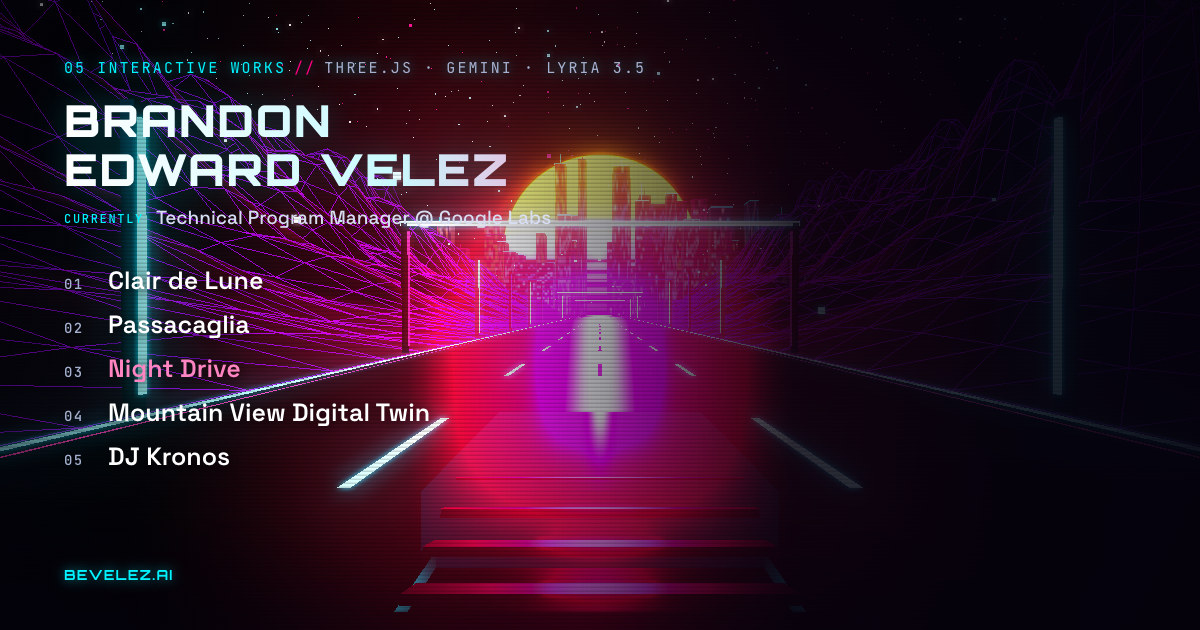
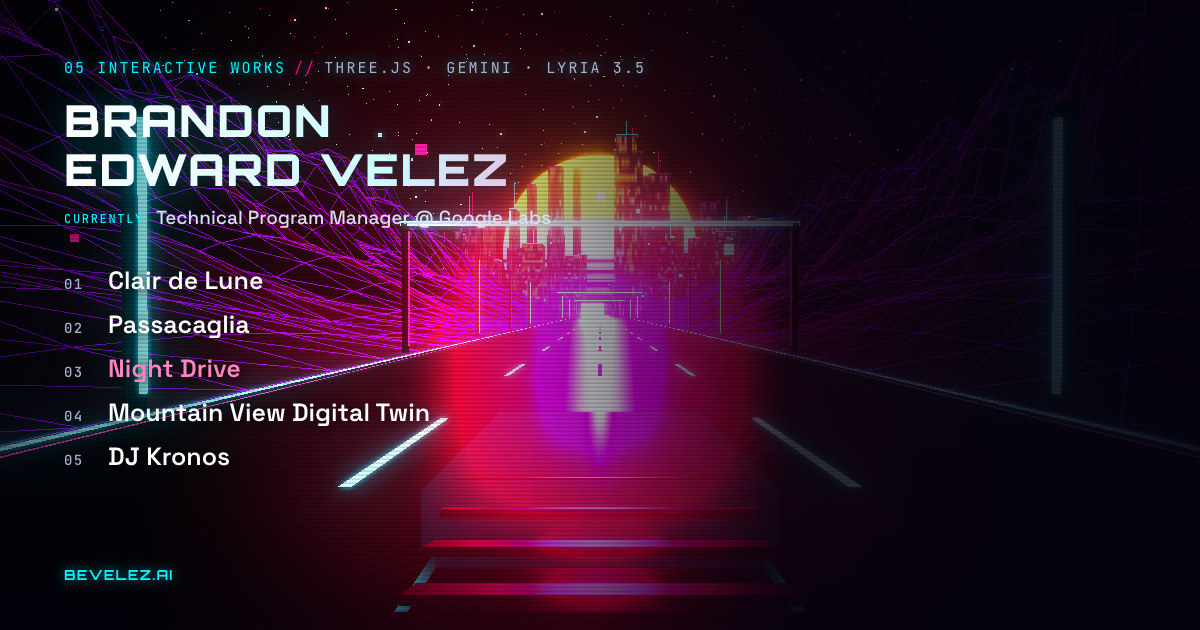
reve

diff --git a/main.js b/main.js
@@ -43,7 +43,7 @@ container.appendChild(renderer.domElement);
 // Neon surfaces are authored above 1.0 (HDR) so the bloom threshold only catches true emitters:
 // rails, lane dashes, pylon strips, tower crowns, the sun and the tail bar. Asphalt, car paint
 // and the wireframe terrain stay crisp instead of smearing into the glow.
-const NEON_HDR = 1.45;
+const NEON_HDR = 1.38;
 function neonColor(hex, intensity = NEON_HDR) {
   return new THREE.Color(hex).multiplyScalar(intensity);
 }
@@ -59,9 +59,9 @@ const composerTarget = new THREE.WebGLRenderTarget(1, 1, {
 const renderScene = new RenderPass(scene, camera);
 const bloomPass = new UnrealBloomPass(
   new THREE.Vector2(viewportSize().width, viewportSize().height),
-  0.38, // strength
-  0.28, // radius
-  1.05  // threshold (HDR: only neon / sun / emissive windows cross it)
+  0.36, // strength
+  0.3,  // radius
+  1.06  // threshold (HDR: only neon / sun / emissive windows cross it)
 );
 const outputPass = new OutputPass(); // AgX tone mapping + sRGB, applied once, after bloom
 
@@ -137,7 +137,7 @@ let boostBlend = 0;
 const ambientLight = new THREE.AmbientLight(0x28154a, 1.4);
 scene.add(ambientLight);
 
-const horizonLight = new THREE.DirectionalLight(0xff007f, 1.25);
+const horizonLight = new THREE.DirectionalLight(0xff007f, 1.0);
 horizonLight.position.set(0, 35, -260);
 scene.add(horizonLight);
 
@@ -186,7 +186,7 @@ const sunGroup = new THREE.Group();
 const sunGeo = new THREE.PlaneGeometry(125, 125);
 const sunMat = new THREE.MeshBasicMaterial({
   map: createSynthwaveSunTexture(),
-  color: neonColor(0xffffff, 1.25),
+  color: neonColor(0xffffff, 1.24),
   transparent: true,
   fog: false,
   depthWrite: false
@@ -237,8 +237,8 @@ const ROAD_WIDTH = 18;
 const roadGeo = new THREE.PlaneGeometry(ROAD_WIDTH, ROAD_LENGTH);
 const roadMat = new THREE.MeshStandardMaterial({
   color: 0x080612,
-  roughness: 0.46,
-  metalness: 0.55
+  roughness: 0.56,
+  metalness: 0.5
 });
 const roadMesh = new THREE.Mesh(roadGeo, roadMat);
 roadMesh.rotation.x = -Math.PI / 2;
@@ -264,8 +264,8 @@ createGlowingRail(ROAD_WIDTH / 2 - 0.5, 0xff007f, 0.1);
 // Scrolling Dashed Lane Dividers (3 lanes)
 const dashObjects = [];
 const dashGeo = new THREE.PlaneGeometry(0.16, 4.2);
-const dashMatCyan = new THREE.MeshBasicMaterial({ color: neonColor(0x00f3ff, 1.3) });
-const dashMatPink = new THREE.MeshBasicMaterial({ color: neonColor(0xff007f, 1.3) });
+const dashMatCyan = new THREE.MeshBasicMaterial({ color: neonColor(0x00f3ff, 1.15) });
+const dashMatPink = new THREE.MeshBasicMaterial({ color: neonColor(0xff007f, 1.15) });
 
 const laneXPositions = [-3.0, 0.0, 3.0];
 const numDashesPerLane = 28;
@@ -472,7 +472,7 @@ for (let i = 0; i < NUM_BUILDINGS; i++) {
   if (height > 28) {
     const capColor = i % 2 === 0 ? 0x00f3ff : 0xff007f;
     const capGeo = new THREE.BoxGeometry(width * 1.03, 0.55, depth * 1.03);
-    const capMat = new THREE.MeshBasicMaterial({ color: neonColor(capColor, 1.4) });
+    const capMat = new THREE.MeshBasicMaterial({ color: neonColor(capColor, 1.3) });
     const cap = new THREE.Mesh(capGeo, capMat);
     cap.position.set(x, height - 0.8, zDepth);
     cityGroup.add(cap);
@@ -579,14 +579,14 @@ carGroup.add(spoilerWing);
 
 // Iconic Full-Width Glowing Cyberpunk Tail Light Bar
 const tailLightBarGeo = new THREE.BoxGeometry(2.14, 0.14, 0.08);
-const tailLightMat = new THREE.MeshBasicMaterial({ color: neonColor(0xff0055, 1.6) });
+const tailLightMat = new THREE.MeshBasicMaterial({ color: neonColor(0xff0055, 1.45) });
 const tailLightBar = new THREE.Mesh(tailLightBarGeo, tailLightMat);
 tailLightBar.position.set(0, 0.36, 2.34);
 carGroup.add(tailLightBar);
 
 // Secondary lower diffuser light strip
 const lowerTailGeo = new THREE.BoxGeometry(1.9, 0.05, 0.08);
-const lowerTailMat = new THREE.MeshBasicMaterial({ color: neonColor(0xff5500, 1.3) });
+const lowerTailMat = new THREE.MeshBasicMaterial({ color: neonColor(0xff5500, 1.15) });
 const lowerTail = new THREE.Mesh(lowerTailGeo, lowerTailMat);
 lowerTail.position.set(0, 0.18, 2.34);
 carGroup.add(lowerTail);
@@ -603,7 +603,7 @@ const exhaustFlames = [];
   const flameGeo = new THREE.ConeGeometry(0.11, 0.75, 12);
   flameGeo.rotateX(Math.PI / 2);
   const flameMat = new THREE.MeshBasicMaterial({
-    color: neonColor(0x00f3ff, 1.5),
+    color: neonColor(0x00f3ff, 1.4),
     transparent: true,
     opacity: 0.9
   });
@@ -621,7 +621,7 @@ const tireMat = new THREE.MeshStandardMaterial({ color: 0x050508, roughness: 0.8
 
 const rimGeo = new THREE.TorusGeometry(0.24, 0.032, 8, 20);
 rimGeo.rotateY(Math.PI / 2);
-const rimMat = new THREE.MeshBasicMaterial({ color: neonColor(0x00f3ff, 1.5) });
+const rimMat = new THREE.MeshBasicMaterial({ color: neonColor(0x00f3ff, 1.2) });
 
 const wheelPositions = [
   { x: -1.12, y: -0.04, z: -1.38 },
@@ -949,7 +949,7 @@ function animate() {
   boostBlend = THREE.MathUtils.lerp(boostBlend, isBoosting ? 1 : 0, dt * 3);
   gradePass.uniforms.uTime.value = elapsed;
   gradePass.uniforms.uAberration.value = 0.0012 + metrics.bass * 0.0016 + boostBlend * 0.003;
-  bloomPass.strength = 0.38 + metrics.bass * 0.1 + boostBlend * 0.08;
+  bloomPass.strength = 0.36 + metrics.bass * 0.09 + boostBlend * 0.08;
 
   // Scroll Highway Lane Dashes
   const totalDashSpan = numDashesPerLane * dashSpacing;

diff --git a/index.html b/index.html
@@ -212,6 +212,6 @@
     </div>
   </div>
 
-  <script type="module" src="./main.js?v=13"></script>
+  <script type="module" src="./main.js?v=16"></script>
 </body>
 </html>
